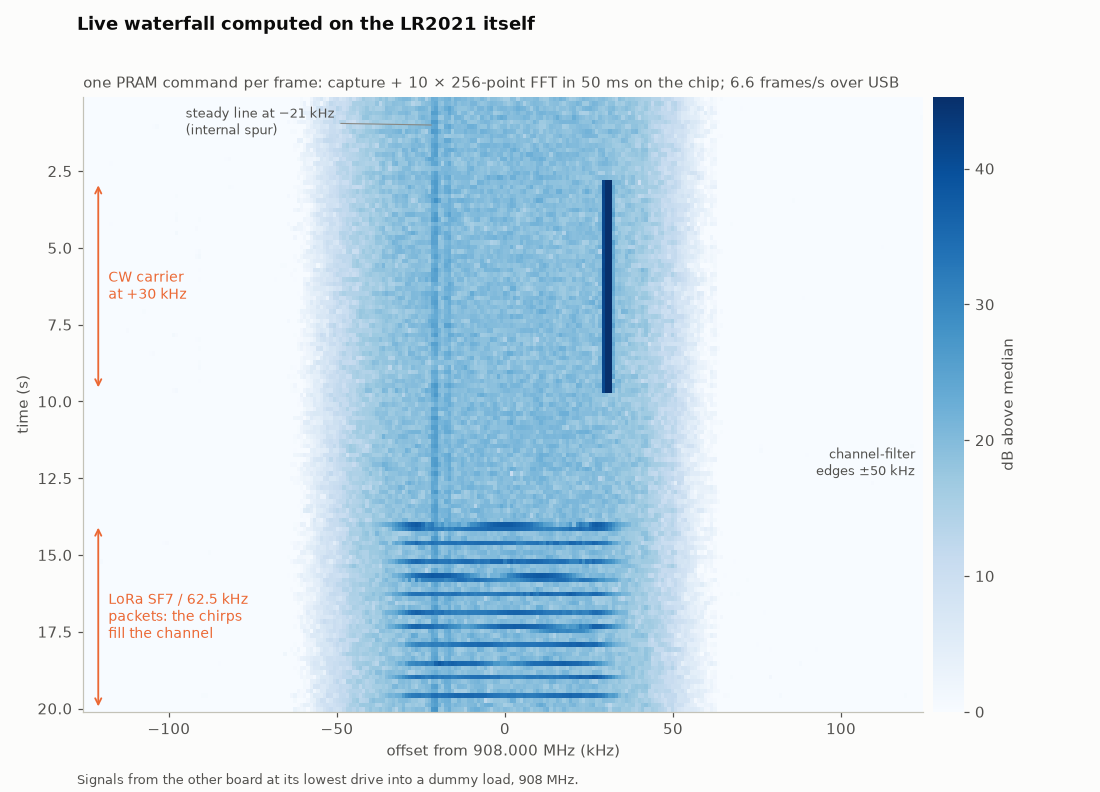
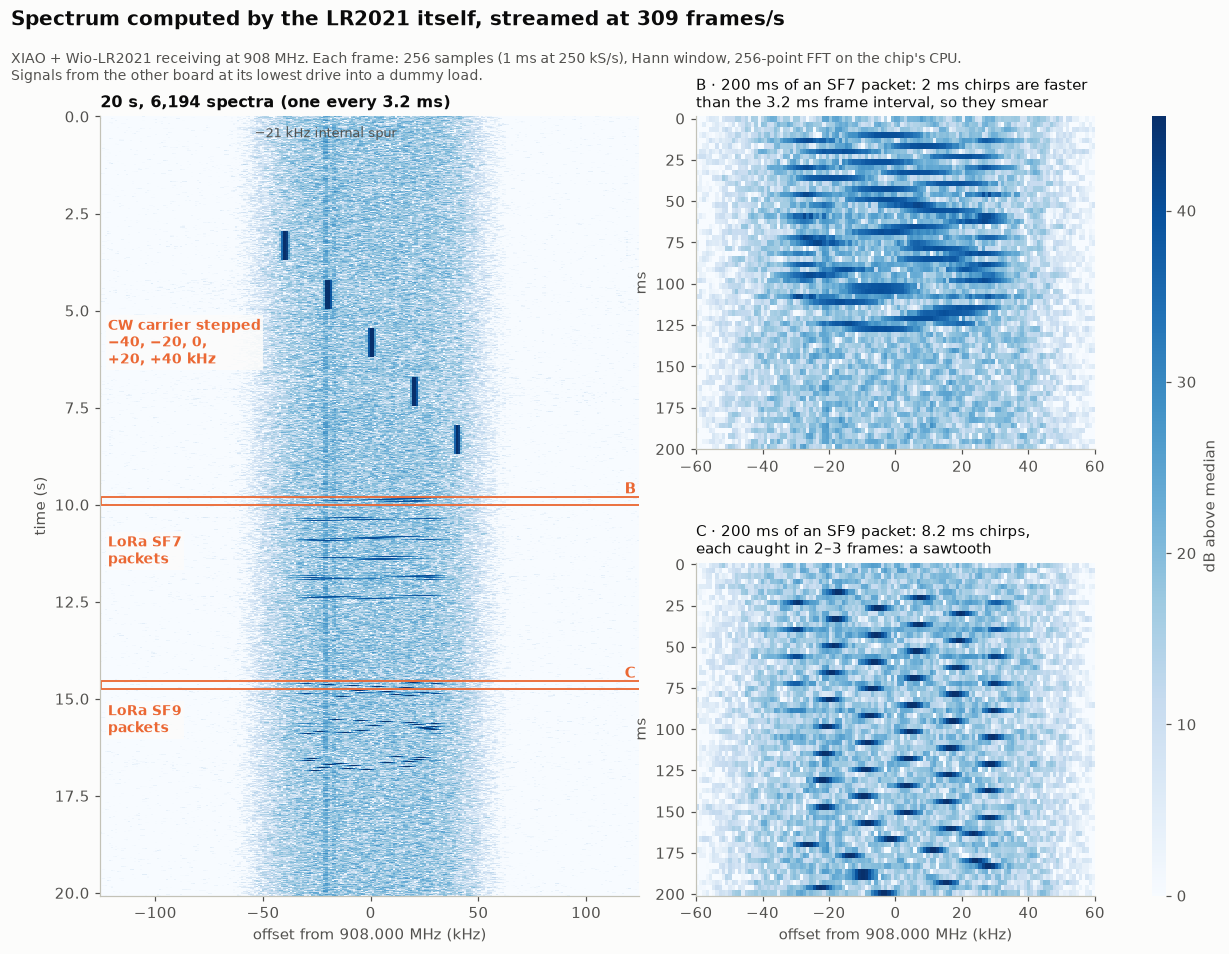
Show a 309 frames/s capture as the on-chip waterfall figure
20 s at one spectrum every 3.2 ms: a stepped CW carrier, LoRa SF7 and SF9 packets, with zooms
showing SF9's chirps as a sawtooth.

diff --git a/docs/pram-custom-commands.md b/docs/pram-custom-commands.md
@@ -103,9 +103,12 @@ Per frame outside the chip: SPI readback 0.34 ms, USB 0.09 ms. Against numpy on 
 
 ![Live waterfall computed on the chip](figures/onchip_waterfall.png)
 
-(The waterfall was recorded with the first version at 6.6 frames/s: a CW carrier at +30 kHz, then
-back-to-back LoRa SF7 / 62.5 kHz packets, the ±50 kHz channel-filter edges and a steady internal
-spur at −21 kHz.)
+A 20 s capture at 309 frames/s (`waterfall --nseg 1`): every spectrum was computed on the chip.
+The other board (lowest drive, dummy load) stepped a CW carrier through −40, −20, 0, +20 and
++40 kHz, then sent LoRa SF7 and SF9 packets (62.5 kHz). Zoom B: SF7's 2 ms chirps are shorter than
+the 3.2 ms frame interval, so they smear. Zoom C: SF9's 8.2 ms chirps span 2–3 frames and show as
+a sawtooth. Also visible: the steady internal spur at −21 kHz and the ±50 kHz channel-filter
+edges.
 
 ```
 python3 tools/pram.py waterfall --seconds 20 --nseg 4 --save wf.npz --plot wf.png
